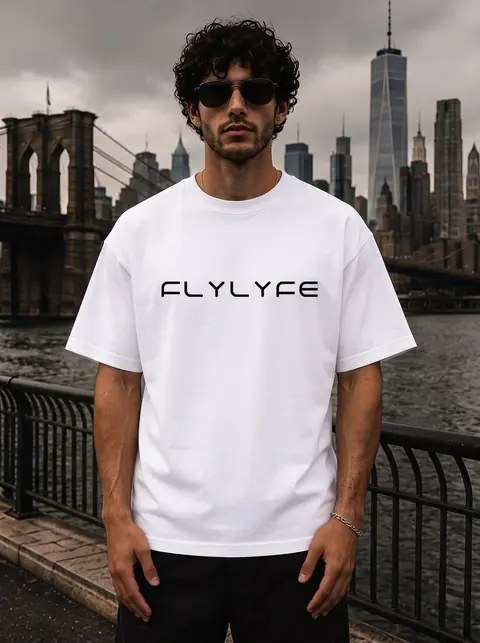
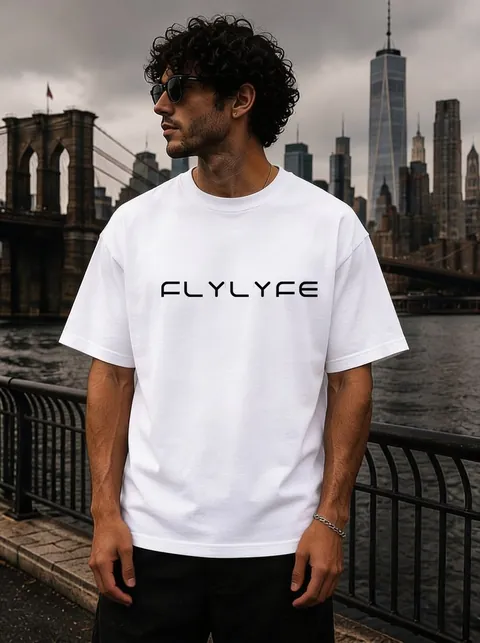
Conga Tee: new 12in back print mockups, bump asset cache-busters
The Conga Tee was rebuilt in Apliiq with a 12in x 8.72in back print and
12.25in front wordmark, both 5in below the collar, on new SKUs
(APQ-6119945/6119951/6120009). Regenerate the White/Black/Ivory
front+back mockups (and their 480/960 responsive WebPs) to show the
bigger print, and bump ASSET_V / manifest cache-busters so browsers
pick up the new images.

diff --git a/js/app.js b/js/app.js
@@ -193,11 +193,11 @@ function shopVarImg(p, color) {
 
 async function init() {
   const [modelMan, data] = await Promise.all([
-    fetch('assets/products-model/manifest.json?v=20260909').then(r=>r.json()).catch(()=>({})),
+    fetch('assets/products-model/manifest.json?v=20260923').then(r=>r.json()).catch(()=>({})),
     gql(PRODUCT_Q)
   ]);
   /* cache-bust product images so updated placements replace cached copies */
-  const ASSET_V = '20260909';
+  const ASSET_V = '20260923';
   const _bust = u => u ? u + (u.includes('?') ? '&' : '?') + 'v=' + ASSET_V : u;
   Object.values(modelMan).forEach(colors => Object.values(colors).forEach(v => {
     if (v.front) v.front = _bust(v.front);

diff --git a/js/product-page.js b/js/product-page.js
@@ -142,7 +142,7 @@ function render() {
 }
 async function initProductPage() {
   try {
-    const [data,manifest]=await Promise.all([gql(PRODUCT_Q,{handle}),fetch('/assets/products-model/manifest.json?v=20260909').then(r=>r.ok?r.json():{}).catch(()=>({}))]);
+    const [data,manifest]=await Promise.all([gql(PRODUCT_Q,{handle}),fetch('/assets/products-model/manifest.json?v=20260923').then(r=>r.ok?r.json():{}).catch(()=>({}))]);
     product=data.product;imageManifest=manifest;
     if(!product || product.vendor!=='FLYLYFE') throw new Error('FLYLYFE product not found');
     render();
